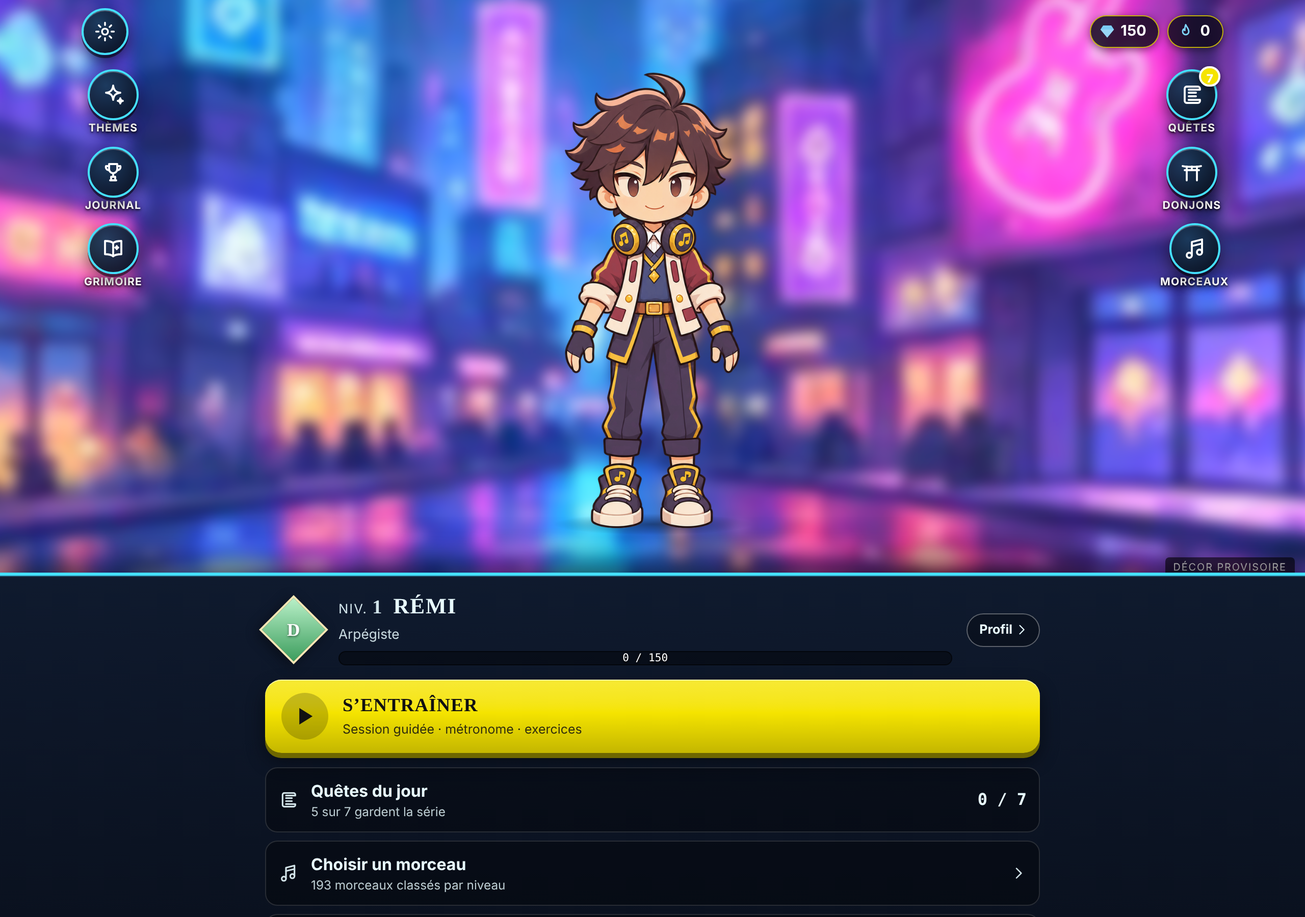
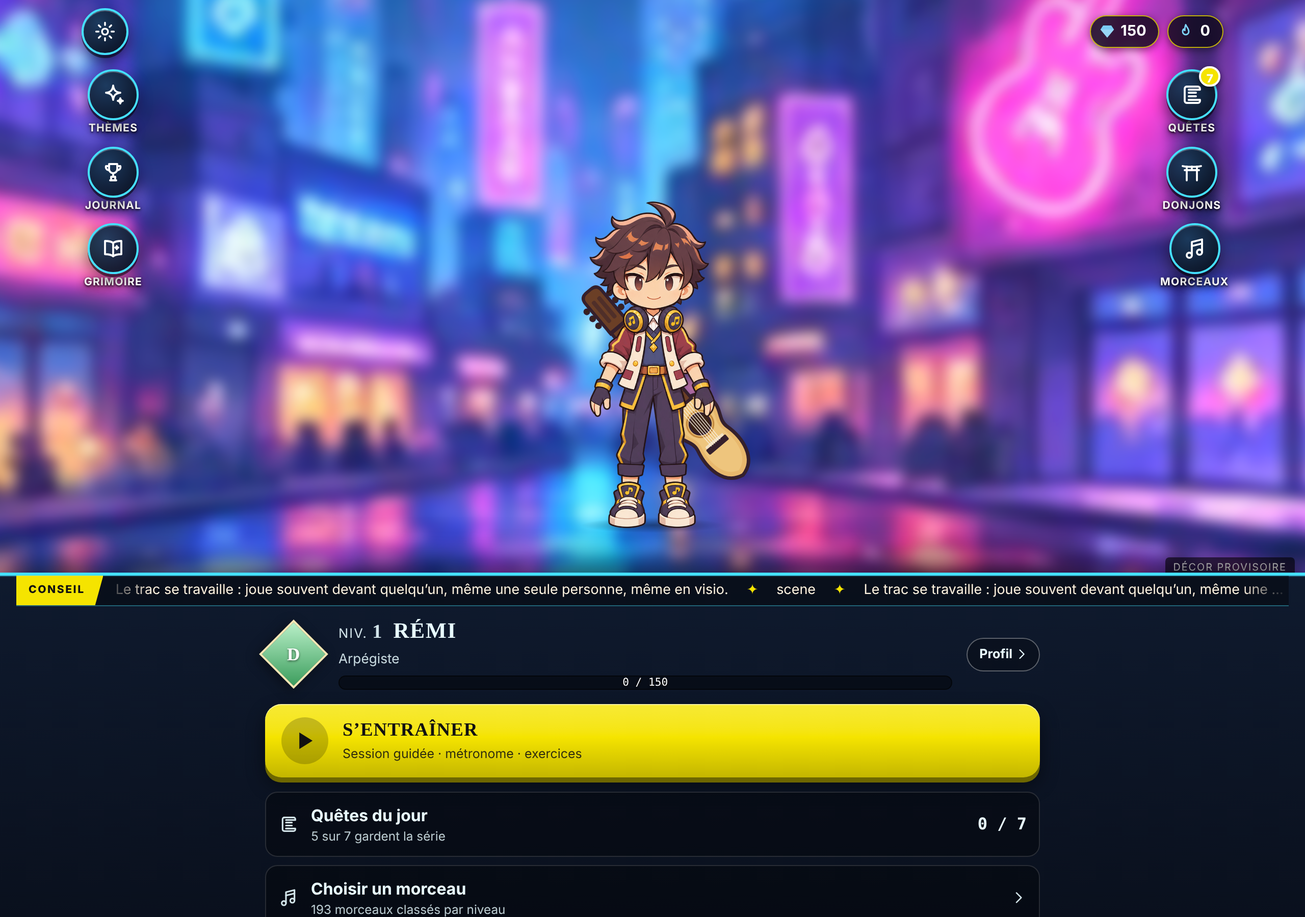
v0.9.1 : guitares vectorielles en bandoulière (7 skins, visibles partout, changement immédiat), personnage plus petit sur l'accueil, bandeau de conseils fin et défilant
Claude-Session: https://claude.ai/code/session_01KPwmPymtzNQfmMqLRWaDoX

Changed region(s): [[0.0, 0.6222, 0.9688, 1.0], [0.4062, 0.0622, 0.5938, 0.5911], [0.5938, 0.6222, 0.625, 0.6533]]

diff --git a/src/avatar/guitars.tsx b/src/avatar/guitars.tsx
@@ -1,0 +1,109 @@
+/**
+ * Guitares vectorielles, dessinées dans le style de la planche de DA (aplats, contour sombre épais),
+ * d'après les quatre « skins d'exemple » (acoustique naturelle, électrique rouge, améthyste, cristal).
+ * Elles se superposent aux masters SANS les modifier : guitare en bandoulière dans le dos, calque derrière le corps.
+ * Coordonnées locales : la guitare est dessinée debout dans une boîte 240 × 720 (centre 120, 360).
+ */
+import type { AvatarId } from '../game/model';
+
+export type GuitarShape = 'acoustic' | 'electric';
+export interface GuitarSkin { shape: GuitarShape; name: string; body: string; body2: string; top?: string; guard?: string; neck: string; head: string; detail: string; sparkle?: boolean }
+
+const OUTLINE = '#35202c';
+export const GUITAR_SKINS: Record<string, GuitarSkin> = {
+  guitar_study:        { shape: 'acoustic', name: 'Guitare d’étude',     body: '#e8b86d', body2: '#c58a3f', top: '#f3cf8a', neck: '#6b3f26', head: '#6b3f26', detail: '#3b2418' },
+  guitar_cedar:        { shape: 'acoustic', name: 'Classique en cèdre',  body: '#c97a44', body2: '#9d552a', top: '#dc9a66', neck: '#4a2a18', head: '#4a2a18', detail: '#2d1a10' },
+  guitar_maple:        { shape: 'acoustic', name: 'Érable flammé',       body: '#e4a24a', body2: '#b86f2a', top: '#f0c070', neck: '#5a3520', head: '#5a3520', detail: '#3a2010', sparkle: true },
+  guitar_red_electric: { shape: 'electric', name: 'Électrique rouge',    body: '#d6263c', body2: '#9d1427', guard: '#fff5ea', neck: '#8a5a33', head: '#d6263c', detail: '#f7e7b4' },
+  guitar_amethyst:     { shape: 'electric', name: 'Électrique améthyste', body: '#7d3fb2', body2: '#55267f', guard: '#8f55c4', neck: '#5a3a26', head: '#7d3fb2', detail: '#f3c650', sparkle: true },
+  guitar_crystal:      { shape: 'electric', name: 'Guitare de cristal',  body: '#5fb8ff', body2: '#2f7fd6', guard: '#bfe6ff', neck: '#2a4a7a', head: '#5fb8ff', detail: '#ffffff', sparkle: true },
+  guitar_virtuoso:     { shape: 'electric', name: 'Guitare du Virtuose', body: '#23202b', body2: '#0f0d14', guard: '#3a3545', neck: '#4a3524', head: '#23202b', detail: '#f3c650', sparkle: true },
+};
+export const guitarSkin = (id: string | null | undefined): GuitarSkin | null => (id && GUITAR_SKINS[id]) || null;
+
+/**
+ * Placement en bandoulière dans le dos, en coordonnées du canevas 1024 × 1280 (sol à 1170).
+ * Le manche dépasse au-dessus de l'épaule gauche (côté spectateur), la caisse au niveau de la hanche droite.
+ */
+export const GUITAR_POSE: Record<AvatarId, { x: number; y: number; rot: number; scale: number; flip: boolean }> = {
+  boy: { x: 556, y: 690, rot: -40, scale: 1.16, flip: false },
+  // la queue de cheval occupe le côté gauche : guitare en miroir, manche au-dessus de l'épaule droite
+  girl: { x: 480, y: 700, rot: 40, scale: 1.14, flip: true },
+};
+
+function Strings({ x1 = 96, x2 = 144, y1 = 150, y2 = 560 }: { x1?: number; x2?: number; y1?: number; y2?: number }) {
+  return <g stroke="#f7efe0" strokeWidth="2.2" opacity=".9">{[0, 1, 2, 3, 4, 5].map((i) => <line key={i} x1={x1 + (i * (x2 - x1)) / 5} y1={y1} x2={x1 + 8 + (i * (x2 - x1 - 16)) / 5} y2={y2} />)}</g>;
+}
+function Head({ s, electric }: { s: GuitarSkin; electric: boolean }) {
+  return (
+    <g>
+      {electric
+        ? <path d="M98 36 C 96 10, 150 2, 156 30 L 150 150 L 90 150 Z" fill={s.head} stroke={OUTLINE} strokeWidth="9" strokeLinejoin="round" />
+        : <path d="M90 150 L 90 40 Q 90 18 112 18 L 128 18 Q 150 18 150 40 L 150 150 Z" fill={s.head} stroke={OUTLINE} strokeWidth="9" strokeLinejoin="round" />}
+      {!electric && <><rect x="104" y="48" width="12" height="78" rx="5" fill={OUTLINE} opacity=".5" /><rect x="124" y="48" width="12" height="78" rx="5" fill={OUTLINE} opacity=".5" /></>}
+      {[0, 1, 2].map((i) => <g key={i}><circle cx={electric ? 86 : 78} cy={60 + i * 26} r="7" fill={s.detail} stroke={OUTLINE} strokeWidth="5" /><circle cx={electric ? 86 : 162} cy={electric ? 138 - i * 26 : 60 + i * 26} r="7" fill={s.detail} stroke={OUTLINE} strokeWidth="5" /></g>)}
+    </g>
+  );
+}
+function Neck({ s }: { s: GuitarSkin }) {
+  return (
+    <g>
+      <rect x="92" y="140" width="56" height="300" fill={s.neck} stroke={OUTLINE} strokeWidth="9" />
+      {[0, 1, 2, 3, 4, 5, 6, 7, 8].map((i) => <line key={i} x1="96" y1={170 + i * 30} x2="144" y2={170 + i * 30} stroke={OUTLINE} strokeWidth="3" opacity=".55" />)}
+      <rect x="88" y="142" width="64" height="12" fill="#f3e2c3" stroke={OUTLINE} strokeWidth="5" />
+    </g>
+  );
+}
+
+export function GuitarArt({ skin, className }: { skin: GuitarSkin; className?: string }) {
+  const s = skin;
+  const electric = s.shape === 'electric';
+  return (
+    <g className={className}>
+      {electric ? (
+        <>
+          {/* caisse type solid body avec deux cornes */}
+          <path d="M120 430 C 60 420, 20 440, 28 500 C 36 548, 10 600, 44 650 C 76 700, 120 720, 150 700 C 190 676, 236 690, 230 630 C 226 584, 250 540, 232 500 C 214 460, 190 452, 170 440 C 160 418, 128 410, 120 430 Z" fill={s.body} stroke={OUTLINE} strokeWidth="10" strokeLinejoin="round" />
+          <path d="M70 520 C 60 580, 70 640, 120 668 C 160 684, 200 660, 206 610 C 212 560, 190 520, 150 506 C 120 496, 84 496, 70 520 Z" fill={s.body2} opacity=".35" />
+          <path d="M96 470 C 60 480, 56 560, 76 610 C 92 650, 140 668, 176 640 C 196 620, 190 580, 184 540 L 176 470 Z" fill={s.guard} stroke={OUTLINE} strokeWidth="6" strokeLinejoin="round" />
+          <rect x="98" y="480" width="44" height="14" rx="4" fill={OUTLINE} /><rect x="98" y="516" width="44" height="14" rx="4" fill={OUTLINE} /><rect x="98" y="554" width="44" height="14" rx="4" fill={OUTLINE} />
+          <rect x="92" y="584" width="56" height="12" rx="3" fill={s.detail} stroke={OUTLINE} strokeWidth="4" />
+          <circle cx="178" cy="596" r="9" fill={s.detail} stroke={OUTLINE} strokeWidth="4" /><circle cx="196" cy="626" r="9" fill={s.detail} stroke={OUTLINE} strokeWidth="4" />
+          <Strings y1={150} y2={588} />
+        </>
+      ) : (
+        <>
+          <path d="M120 432 C 70 428, 44 456, 50 500 C 54 526, 72 540, 66 566 C 52 620, 60 690, 120 702 C 180 690, 188 620, 174 566 C 168 540, 186 526, 190 500 C 196 456, 170 428, 120 432 Z" fill={s.body} stroke={OUTLINE} strokeWidth="10" strokeLinejoin="round" />
+          <path d="M120 440 C 82 438, 62 462, 66 498 C 70 524, 86 538, 80 566 C 68 614, 76 672, 120 684 C 164 672, 172 614, 160 566 C 154 538, 170 524, 174 498 C 178 462, 158 438, 120 440 Z" fill={s.top} opacity=".55" />
+          {s.sparkle && <path d="M74 470 C 90 500, 70 560, 86 600 M150 460 C 166 500, 146 560, 162 610" stroke="#fff" strokeWidth="6" opacity=".35" fill="none" strokeLinecap="round" />}
+          <circle cx="120" cy="512" r="30" fill={s.detail} stroke={OUTLINE} strokeWidth="6" /><circle cx="120" cy="512" r="38" fill="none" stroke={s.body2} strokeWidth="5" />
+          <rect x="84" y="580" width="72" height="18" rx="4" fill={OUTLINE} /><rect x="88" y="572" width="64" height="8" rx="3" fill="#f3e2c3" />
+          <Strings y1={150} y2={582} />
+        </>
+      )}
+      <Neck s={s} />
+      <Head s={s} electric={electric} />
+    </g>
+  );
+}
+
+/** Calque « guitare dans le dos » à insérer derrière le corps, dans un SVG au canevas 1024 × 1280. */
+export function GuitarBackLayer({ avatar, skin }: { avatar: AvatarId; skin: GuitarSkin }) {
+  const p = GUITAR_POSE[avatar];
+  return (
+    <svg className="avatar-layer layer-guitar_back" viewBox="0 0 1024 1280" aria-hidden="true" data-testid="guitar-layer" data-guitar-shape={skin.shape}>
+      <g transform={`translate(${p.x} ${p.y}) rotate(${p.rot}) scale(${p.flip ? -p.scale : p.scale} ${p.scale}) translate(-120 -360)`}>
+        <GuitarArt skin={skin} />
+      </g>
+    </svg>
+  );
+}
+
+/** Vignette d'une guitare (boutique, garde-robe). */
+export function GuitarIcon({ skin, size = 56 }: { skin: GuitarSkin; size?: number }) {
+  return (
+    <svg width={size} height={size} viewBox="0 0 720 720" aria-hidden="true" className="guitar-icon">
+      <g transform="translate(360 360) rotate(-40) scale(.9) translate(-120 -360)"><GuitarArt skin={skin} /></g>
+    </svg>
+  );
+}

diff --git a/src/styles.css b/src/styles.css
@@ -703,3 +703,24 @@ button.hub-hero:focus-visible { outline: 3px solid #fff; outline-offset: -6px; b
   :root[data-theme='cyberpunk'] .nav { background: linear-gradient(180deg, #11203a, #070c16); }
   :root[data-theme='ombre'] .nav { background: linear-gradient(180deg, #3a1526, #150a10); }
 }
+
+/* v0.9.1 — guitare vectorielle en bandoulière (calque derrière le corps) */
+.avatar-layer.layer-guitar_back { z-index: 0; }
+.avatar-layer.layer-body { position: absolute; z-index: 1; }
+.avatar[data-anim='celebrate'] .layer-guitar_back { transform-origin: 54% 60%; animation: gl-guitar-swing .6s ease-out 2; }
+@keyframes gl-guitar-swing { 0%, 100% { transform: rotate(0); } 40% { transform: rotate(-4deg) translateY(-6px); } }
+@media (prefers-reduced-motion: reduce) { .avatar .layer-guitar_back { animation: none !important; } }
+
+/* v0.9.1 — bandeau de conseils : fin, défilant, dans la matière du thème, au sommet de la planche */
+.ticker { display: flex; align-items: center; gap: 0; width: 100%; height: 30px; margin: -18px 0 12px; padding: 0; border: 0; border-bottom: 1px solid color-mix(in srgb, var(--gold) 45%, transparent); background: #0006; color: #fff3e0; cursor: pointer; font: inherit; overflow: hidden; }
+.ticker-tag { flex: none; height: 100%; display: grid; place-items: center; padding: 0 12px; background: var(--gold); color: var(--gold-ink, #241500); font: 800 .66rem/1 var(--sans); letter-spacing: .12em; text-transform: uppercase; clip-path: polygon(0 0, 100% 0, calc(100% - 8px) 100%, 0 100%); padding-right: 18px; }
+.ticker-track { flex: 1; min-width: 0; overflow: hidden; height: 100%; display: flex; align-items: center; mask-image: linear-gradient(90deg, transparent, #000 4%, #000 96%, transparent); }
+.ticker-text { display: inline-block; white-space: nowrap; padding-left: 100%; font-size: .84rem; animation: gl-ticker 22s linear infinite; }
+.ticker-text i { font-style: normal; color: var(--gold); margin: 0 18px; }
+.ticker.static .ticker-text { padding-left: 12px; animation: none; overflow: hidden; text-overflow: ellipsis; max-width: 100%; }
+@keyframes gl-ticker { to { transform: translateX(-100%); } }
+:root[data-theme='cyberpunk'] .ticker { border-bottom-color: #45e0ff66; }
+@media (max-width: 760px) { .home-scene { height: clamp(280px, 46vh, 460px); } .home-board { padding-top: 18px; } }
+.home-board { padding-top: 18px; }
+.item-visual { display: grid; place-items: center; height: 72px; margin: -6px 0 2px; border-radius: 10px; background: radial-gradient(circle at 50% 40%, #fff6, transparent 70%); }
+.wardrobe-visual { display: inline-grid; place-items: center; vertical-align: middle; margin: 0 8px 0 4px; }

diff --git a/src/avatar/manifest.ts b/src/avatar/manifest.ts
@@ -4,7 +4,7 @@
  */
 import type { AvatarId } from '../game/model';
 
-export type AssetStatus = 'ready_static' | 'approved' | 'reference_only' | 'planned_missing';
+export type AssetStatus = 'ready_static' | 'approved' | 'reference_only' | 'planned_missing' | 'vector';
 
 /** Canevas commun de tous les calques (contrat du kit). */
 export const CANVAS = { width: 1024, height: 1280, centerX: 512, groundY: 1170 } as const;
@@ -39,11 +39,18 @@ export const ANCHOR_VALUES: Record<AvatarId, Partial<Record<Anchor, [number, num
 
 /** Guitares : contrat de production (noms = ids de la boutique). Aucune n'est livrée. */
 export interface EquipAsset { status: AssetStatus; layers: Partial<Record<LayerSlot, string>>; icon?: string }
+/**
+ * Guitares : rendues en VECTORIEL (src/avatar/guitars.tsx) d'après les skins de la planche de DA, en bandoulière
+ * dans le dos. Des calques PNG « guitare tenue » (approved) prendraient le relais s'ils étaient livrés.
+ */
 export const GUITARS: Record<string, EquipAsset> = {
-  guitar_study: { status: 'planned_missing', layers: {} },
-  guitar_red_electric: { status: 'planned_missing', layers: {} },
-  guitar_amethyst: { status: 'planned_missing', layers: {} },
-  guitar_crystal: { status: 'planned_missing', layers: {} },
+  guitar_study: { status: 'vector', layers: {} },
+  guitar_cedar: { status: 'vector', layers: {} },
+  guitar_maple: { status: 'vector', layers: {} },
+  guitar_red_electric: { status: 'vector', layers: {} },
+  guitar_amethyst: { status: 'vector', layers: {} },
+  guitar_crystal: { status: 'vector', layers: {} },
+  guitar_virtuoso: { status: 'vector', layers: {} },
 };
 /** Vêtements / coiffures / accessoires : nécessitent une source multicouche (doc 04). */
 export const CLOTHING_STATUS: AssetStatus = 'planned_missing';
@@ -107,6 +114,6 @@ export function renderLayers(avatar: AvatarId, guitarId: string | null): { slot:
 export function equipVisibility(itemId: string | null): 'visible' | 'blocked_by_missing_art' | 'none' {
   if (!itemId) return 'none';
   const g = GUITARS[itemId];
-  if (g) return g.status === 'approved' ? 'visible' : 'blocked_by_missing_art';
+  if (g) return g.status === 'approved' || g.status === 'vector' ? 'visible' : 'blocked_by_missing_art';
   return 'blocked_by_missing_art';
 }

diff --git a/src/screens/Hero.tsx b/src/screens/Hero.tsx
@@ -4,6 +4,7 @@ import { Bar, Crystal, Panel, RarityTag, Tabs, fmt } from '../ui/bits';
 import { Avatar, AvatarPending, AvatarPortrait } from '../avatar/Avatar';
 import { effRank, levelOf, streak } from '../game/engine';
 import { equipVisibility } from '../avatar/manifest';
+import { GuitarIcon, guitarSkin } from '../avatar/guitars';
 import { CATALOG, CONSUMABLES, ITEM, MASTERY, REQ_LABEL, SHOP, SLOT_LABELS, fitsAvatar, type CatalogItem } from '../game/catalog';
 import * as A from '../game/actions';
 import { crystalParts } from '../game/progress';
@@ -65,7 +66,8 @@ function Profile() {
 function ItemCard({ it, children, locked }: { it: CatalogItem; children?: React.ReactNode; locked?: boolean }) {
   return (
     <li className={`item ${locked ? 'locked' : 'owned'} rarity-edge-${it.rarity}`}>
-      <span className="item-slot">{SLOT_LABELS[it.slot]}{it.visual !== 'approved' && <span title="Visuel en production"> · visuel à venir</span>}</span>
+      {guitarSkin(it.id) && <span className="item-visual"><GuitarIcon skin={guitarSkin(it.id)!} size={64} /></span>}
+      <span className="item-slot">{SLOT_LABELS[it.slot]}{it.visual !== 'approved' && !guitarSkin(it.id) && <span title="Visuel en production"> · visuel à venir</span>}</span>
       <b>{it.name}</b>
       <RarityTag rarity={it.rarity} />
       <span className="small muted">{it.desc}</span>
@@ -146,7 +148,8 @@ function Wardrobe() {
           const optional = ['accessory', 'aura', 'decor', 'title'].includes(slot);
           return (
             <label key={slot}>{SLOT_LABELS[slot]}
-              <select value={cur ?? ''} onChange={(e) => act((s) => A.equip(s, slot, e.target.value || null))} disabled={!owned.length && !optional}>
+              {slot === 'guitar' && cur && guitarSkin(cur) && <span className="wardrobe-visual"><GuitarIcon skin={guitarSkin(cur)!} size={44} /></span>}
+              <select value={cur ?? ''} data-testid={`equip-${slot}`} onChange={(e) => act((s) => A.equip(s, slot, e.target.value || null))} disabled={!owned.length && !optional}>
                 {optional && <option value="">— Aucun —</option>}
                 {owned.map((c) => <option key={c.id} value={c.id}>{c.name}</option>)}
               </select>

diff --git a/src/avatar/Avatar.tsx b/src/avatar/Avatar.tsx
@@ -1,6 +1,7 @@
 import { useEffect, useState } from 'react';
 import type { AvatarId } from '../game/model';
 import { CANVAS, CHARACTERS, PLAY_SPRITES, playReady, renderLayers, resolveAnimation, type AnimState } from './manifest';
+import { GuitarBackLayer, guitarSkin } from './guitars';
 
 export function usePrefersReducedMotion(): boolean {
   const q = '(prefers-reduced-motion: reduce)';
@@ -37,12 +38,14 @@ export function Avatar({ avatar, guitar = null, state = 'idle', className = '', 
     return () => window.clearInterval(t);
   }, [play, state, reduced]);
   const bodySrc = play ? (state === 'strum' ? play.strum[frame] : play.hold!) : null;
+  const skin = play ? null : guitarSkin(guitar); // avec de vrais sprites « guitare tenue », la guitare est déjà dessinée
   const alt = label ?? (avatar === 'boy' ? 'Ton héros : le musicien aux cheveux bruns' : 'Ton héroïne : la musicienne aux cheveux corail');
   return (
-    <div className={`avatar ${className}`} data-avatar={avatar} data-anim={anim.state} data-anim-mode={anim.mode} data-blocked={anim.blocked ?? undefined}
+    <div className={`avatar ${className}`} data-avatar={avatar} data-anim={anim.state} data-anim-mode={anim.mode} data-blocked={anim.blocked ?? undefined} data-guitar={skin ? guitar ?? undefined : undefined}
       style={{ aspectRatio: `${CANVAS.width} / ${CANVAS.height}`, ['--ground' as string]: `${((CANVAS.height - CANVAS.groundY) / CANVAS.height) * 100}%` }}>
       <span className="avatar-shadow" aria-hidden="true" />
       <div className="avatar-rig">
+        {skin && <GuitarBackLayer avatar={avatar} skin={skin} />}
         {layers.map((l) => l.slot === 'body'
           ? bodySrc ? <img key={l.slot} className="avatar-layer layer-body" src={bodySrc} alt={alt} draggable={false} data-testid="avatar-body" />
           : <img key={l.slot} className={`avatar-layer layer-${l.slot}`} src={c.file} srcSet={`${c.file512} 512w, ${c.file} 1024w`} sizes="(max-width: 760px) 60vw, 420px" alt={alt} draggable={false} data-testid="avatar-body" />

diff --git a/src/screens/Hub.tsx b/src/screens/Hub.tsx
@@ -16,8 +16,8 @@ import { peekSession } from '../practice/useSession';
 import { blocksOf, fmtMinutes } from '../practice/session';
 import type { Screen } from '../App';
 
-/** Hauteur de la boîte avatar, en fraction de la hauteur de la scène. */
-export const AVATAR_BOX_H = 0.92;
+/** Hauteur de la boîte avatar, en fraction de la hauteur de la scène (plus petit sur l'accueil : le décor respire, la grande version reste sur le Profil). */
+export const AVATAR_BOX_H = 0.66;
 
 /**
  * Page principale : le décor du thème EST l'écran (bord à bord), le personnage se tient sur sa ligne de sol,
@@ -115,6 +115,10 @@ export function Hub({ go, openSettings, openThemes }: { go: (s: Screen) => void;
       </div>
 
       <div className="home-board">
+        <button type="button" className={`ticker ${reduced ? 'static' : ''}`} onClick={() => setTipN((n) => n + 1)} title="Conseil suivant" data-testid="tip-band" aria-label={`Conseil : ${tip[1]}`}>
+          <span className="ticker-tag">Conseil</span>
+          <span className="ticker-track" aria-hidden="true"><span className="ticker-text" key={tipN}>{tip[1]}<i>✦</i>{tip[0]}<i>✦</i>{tip[1]}<i>✦</i></span></span>
+        </button>
         <div className="board-inner">
           <div className="board-profile">
             <div className={`rank-gem small rank-${r.id}`} title={`Rang ${rankLabel} — ${r.name}`}><span>{rankLabel}</span></div>
@@ -152,9 +156,6 @@ export function Hub({ go, openSettings, openThemes }: { go: (s: Screen) => void;
             </button>
           </div>
 
-          <button type="button" className="tip-band" onClick={() => setTipN((n) => n + 1)} title="Conseil suivant" data-testid="tip-band">
-            <span className="tip-tag">Conseil · {tip[0]}</span><span className="tip-text">{tip[1]}</span><Icon.chevron size={16} />
-          </button>
         </div>
       </div>
     </section>

diff --git a/src/game/catalog.ts b/src/game/catalog.ts
@@ -42,7 +42,7 @@ export interface CatalogItem {
 }
 
 const shop = (id: string, slot: Slot, rarity: Exclude<Rarity, 'mastery'>, name: string, desc: string, req: [ReqKey, number], extra: Partial<CatalogItem> = {}): CatalogItem =>
-  ({ id, slot, rarity, name, desc, req, price: PRICE[rarity], visual: slot === 'title' ? 'approved' : 'reference_only', ...extra });
+  ({ id, slot, rarity, name, desc, req, price: PRICE[rarity], visual: slot === 'title' || slot === 'guitar' ? 'approved' : 'reference_only', ...extra });
 
 export const DEFAULTS: CatalogItem[] = [
   { id: 'hair_boy_brown', slot: 'hair', rarity: 'common', name: 'Brun ébouriffé', desc: 'La coiffure du Guitariste.', avatars: ['boy'], default: true, visual: 'reference_only' },
@@ -50,7 +50,7 @@ export const DEFAULTS: CatalogItem[] = [
   { id: 'top_academy', slot: 'top', rarity: 'common', name: 'Veste de l’Académie', desc: 'Bleu nuit et crème, boutons dorés.', default: true, visual: 'reference_only' },
   { id: 'bottom_academy', slot: 'bottom', rarity: 'common', name: 'Pantalon de l’Académie', desc: 'Sobre et confortable.', avatars: ['boy'], default: true, visual: 'reference_only' },
   { id: 'bottom_pleated', slot: 'bottom', rarity: 'common', name: 'Jupe plissée', desc: 'L’uniforme de l’Académie.', avatars: ['girl'], default: true, visual: 'reference_only' },
-  { id: 'guitar_study', slot: 'guitar', rarity: 'common', name: 'Guitare d’étude', desc: 'Celle avec qui tout recommence.', default: true, visual: 'reference_only' },
+  { id: 'guitar_study', slot: 'guitar', rarity: 'common', name: 'Guitare d’étude', desc: 'Celle avec qui tout recommence.', default: true, visual: 'approved' },
 ];
 
 export const SHOP: CatalogItem[] = [

diff --git a/src/avatar/avatar.test.ts b/src/avatar/avatar.test.ts
@@ -25,7 +25,7 @@ describe('assets des personnages (gate A)', () => {
 
 describe('animations et équipements : rien d’inventé (gates F/G)', () => {
   it('le manifeste reflète le kit : guitares et rig manquants', () => {
-    for (const g of Object.keys(GUITARS)) expect(GUITARS[g].status).toBe(kit.other[g]);
+    for (const g of Object.keys(GUITARS)) expect(['vector', kit.other[g]]).toContain(GUITARS[g].status); // vectoriel depuis le 15/11 (D-045)
     for (const a of Object.values(ANIMATIONS)) expect(a.status).toBe('planned_missing');
   });
   it('sans rig : idle/célébration = placeholder, strum/marche = statique, tous bloqués', () => {
@@ -37,7 +37,7 @@ describe('animations et équipements : rien d’inventé (gates F/G)', () => {
   });
   it('une guitare équipée mais non livrée n’ajoute aucun calque', () => {
     expect(renderLayers('girl', 'guitar_crystal').map((l) => l.slot)).toEqual(['body']);
-    expect(equipVisibility('guitar_crystal')).toBe('blocked_by_missing_art');
+    expect(equipVisibility('guitar_crystal')).toBe('visible');
     expect(equipVisibility(null)).toBe('none');
   });
 });

diff --git a/docs/DECISION_LOG.md b/docs/DECISION_LOG.md
@@ -46,3 +46,5 @@
 | D-042 | 2026-11-15 | **Échelle F→SSS / niveaux 1–200** demandée : non encore appliquée. Tout le contenu (donjons, portails, Limit Break, boutique) est indexé sur 7 paliers E…N ; passer à 9 rangs et 200 niveaux touche le moteur vérifié et le test de parité. Proposition à valider : garder les 7 paliers de contenu, afficher F·E·D·C·B·A·S·SS·SSS, courbe 1–200 ralentie (xpFor en L^2,3), remplacement du test de parité par des tests de la nouvelle courbe | **En attente fondateur** | Changement de produit sur l'économie vérifiée |
 | D-043 | 2026-11-15 | **Un seul décor par thème** : Sakura = ex-V3 renommé `panel_bg_sakura.png` ; V1 et V2 retirés, sélecteur de variantes supprimé | Fondateur | « J'en veux qu'une » ; V3 était la version utilisée dans sa référence de cadrage |
 | D-044 | 2026-11-15 | **Page principale « jeu mobile »** (remplace le panneau compact D-025) : le décor est l'écran lui-même, bord à bord, sans cadre ; boutons ronds flottants (réglages, thèmes, journal, grimoire à gauche ; quêtes, donjons, morceaux à droite), compteurs en haut ; sous la scène, une planche dans la matière du thème (bois Sakura, métal Cyberpunk, pierre Ombre) : profil, bouton S'entraîner, raccourcis, conseil. Barre d'onglets à 5 entrées, sombre, icônes vectorielles. Références : Postknight, Dokkan, Seven Deadly Sins, Nikke (inspiration, pas de copie) | Fondateur + tech lead | « Pas deux niveaux, un fond et des formes par-dessus » |
+| D-045 | 2026-11-15 | **Guitares vectorielles** (`src/avatar/guitars.tsx`) : 7 skins dessinés d'après les 4 « skins d'exemple » de la planche de DA (aplats, contour sombre), portées **en bandoulière dans le dos** (calque derrière le corps, masters intacts), en miroir pour la fille (queue de cheval). Visibles sur l'accueil, le Profil, la Boutique et la Garde-robe ; le changement de guitare est immédiat. Statut `vector` ; des sprites PNG « guitare tenue » approuvés prendraient le relais | Prise (tech lead), demande forte du fondateur | Seule voie nette sans artiste : les vignettes de la planche (~100 px) sont trop petites pour être agrandies |
+| D-046 | 2026-11-15 | Accueil peaufiné : personnage à 66 % de la scène (grande version conservée sur le Profil), bandeau de conseils **fin et défilant** au sommet de la planche, dans la matière du thème (statique si « réduire les animations ») | Fondateur | Retour du 15/11 |

diff --git a/docs/QA_REPORT.md b/docs/QA_REPORT.md
@@ -99,3 +99,11 @@ Captures : `art/previews/compare/`.
 | Mesures scène | mobile 390×473, personnage 435 px, pieds à 90 % ; ordinateur 1280×576, personnage 530 px, pieds à 90 % |
 | Captures | `docs/qa/v09/v09_{mobile,desktop}_{sakura,cyberpunk,ombre}.png` |
 | Défaut corrigé | une `url()` passée en variable CSS était résolue depuis `/assets/` : décor invisible → URL en style inline |
+
+## Lot v0.9.1 — guitares, accueil peaufiné (2026-11-15)
+| Commande | Résultat |
+|---|---|
+| `npm test` | 47/47 (visibilité des guitares = `visible`) |
+| `npm run e2e` | **60/60** (guitare d'étude dans le dos sur l'accueil ; achat « Classique en cèdre » puis équipement en garde-robe → changement visible sur le personnage) |
+| Captures | `docs/qa/v09/` (accueil, 3 thèmes, mobile et ordinateur) ; planche des 6 combinaisons personnage × guitare vérifiée à l'œil |
+| Limite | guitares dessinées en vectoriel, pas par un illustrateur : style proche de la planche (aplats, contour), à valider par le fondateur |
